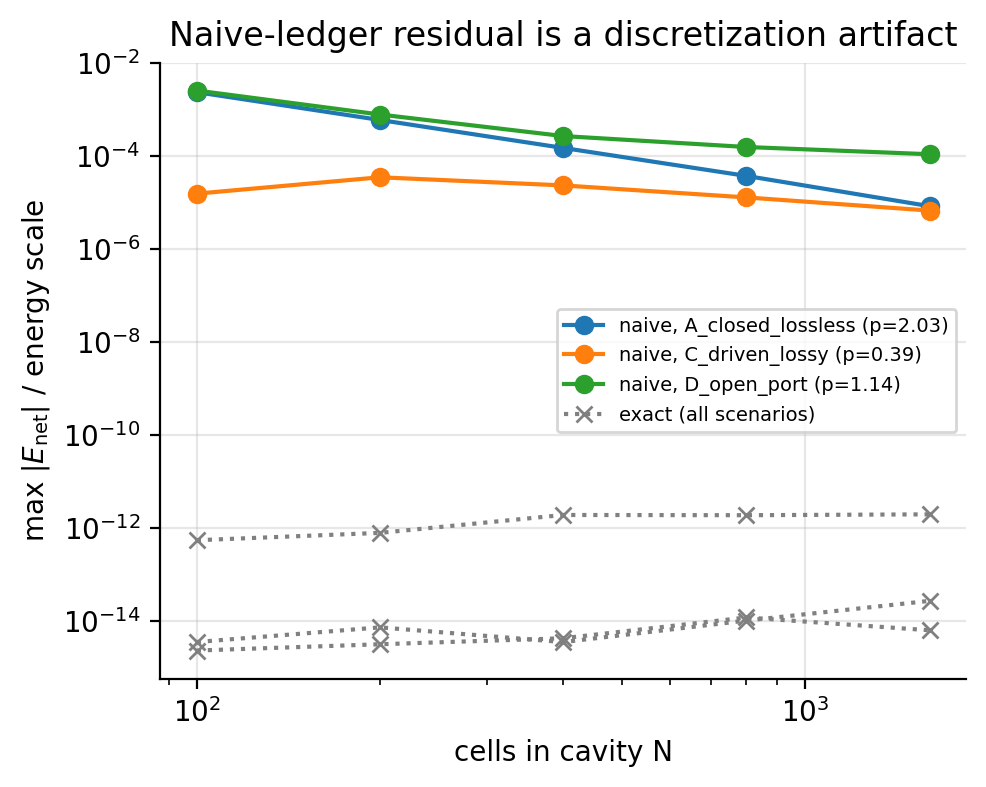
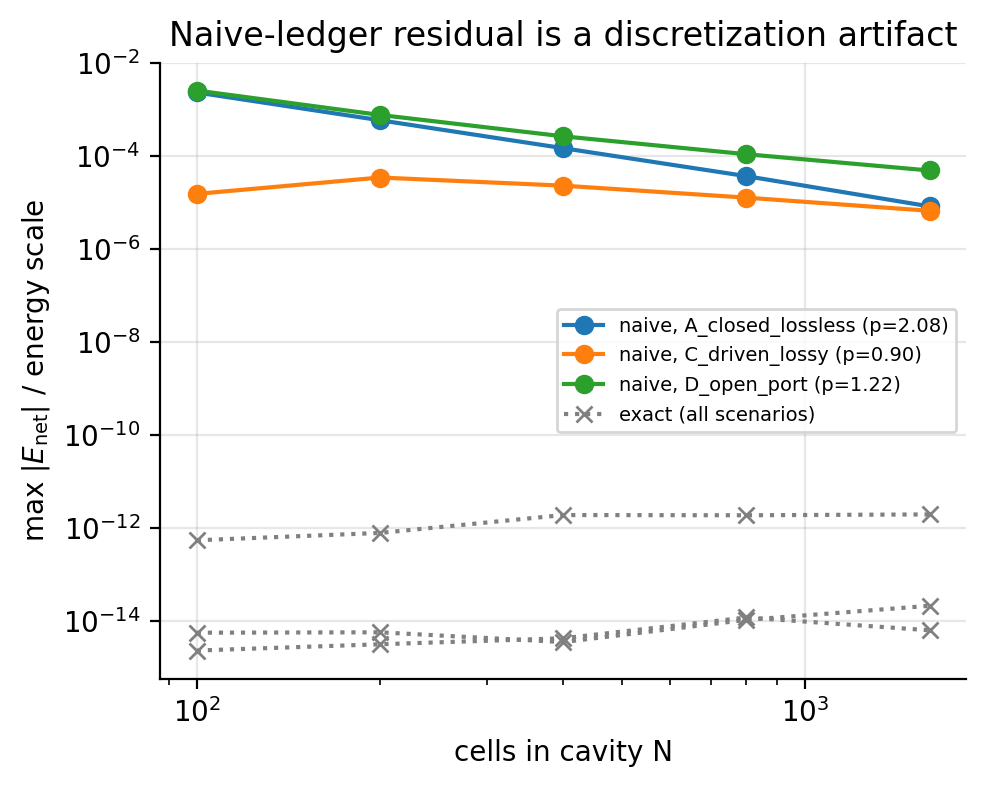
naive

diff --git a/src/cavitylab/solvers/fdtd1d.py b/src/cavitylab/solvers/fdtd1d.py
@@ -81,7 +81,8 @@ class FDTDResult:
     naive_loss: np.ndarray
     naive_port: np.ndarray
     naive_source: np.ndarray
-    modes: dict[int, np.ndarray] = field(default_factory=dict)  # E projections a_m(t)
+    modes: dict[int, np.ndarray] = field(default_factory=dict)  # E projections a_m(t) on sin(m pi x/L)
+    modes_h: dict[int, np.ndarray] = field(default_factory=dict)  # time-averaged H projections on cos
     meta: dict = field(default_factory=dict)
 
 
@@ -176,7 +177,12 @@ class FDTD1D:
         basis = {
             m: (2.0 / lc) * dx * np.sin(m * math.pi * self.x_e / lc) * in_cav for m in modes
         }
+        in_cav_h = self.x_h <= lc
+        basis_h = {
+            m: (2.0 / lc) * dx * np.cos(m * math.pi * self.x_h / lc) * in_cav_h for m in modes
+        }
         mode_rec = {m: np.zeros(n_rec) for m in modes}
+        mode_h_rec = {m: np.zeros(n_rec) for m in modes}
 
         src_nodes = np.array([s.node for s in self.sources], int)
         E, D, H = self.E, self.D, self.H
@@ -197,6 +203,7 @@ class FDTD1D:
                 cum_naive_rec[r] = cum_naive
                 for m, b in basis.items():
                     mode_rec[m][r] = np.dot(b, E)
+                    mode_h_rec[m][r] = np.dot(basis_h[m], h_avg)
                 r += 1
             if step == n_steps:
                 break  # keep H at n-1/2 so that the state stays consistent
@@ -259,6 +266,7 @@ class FDTD1D:
             naive_port=cum_naive_rec[:, 2],
             naive_source=cum_naive_rec[:, 3],
             modes=mode_rec,
+            modes_h=mode_h_rec,
             meta={
                 "solver": "cavitylab.native_fdtd1d",
                 "dx": dx,
